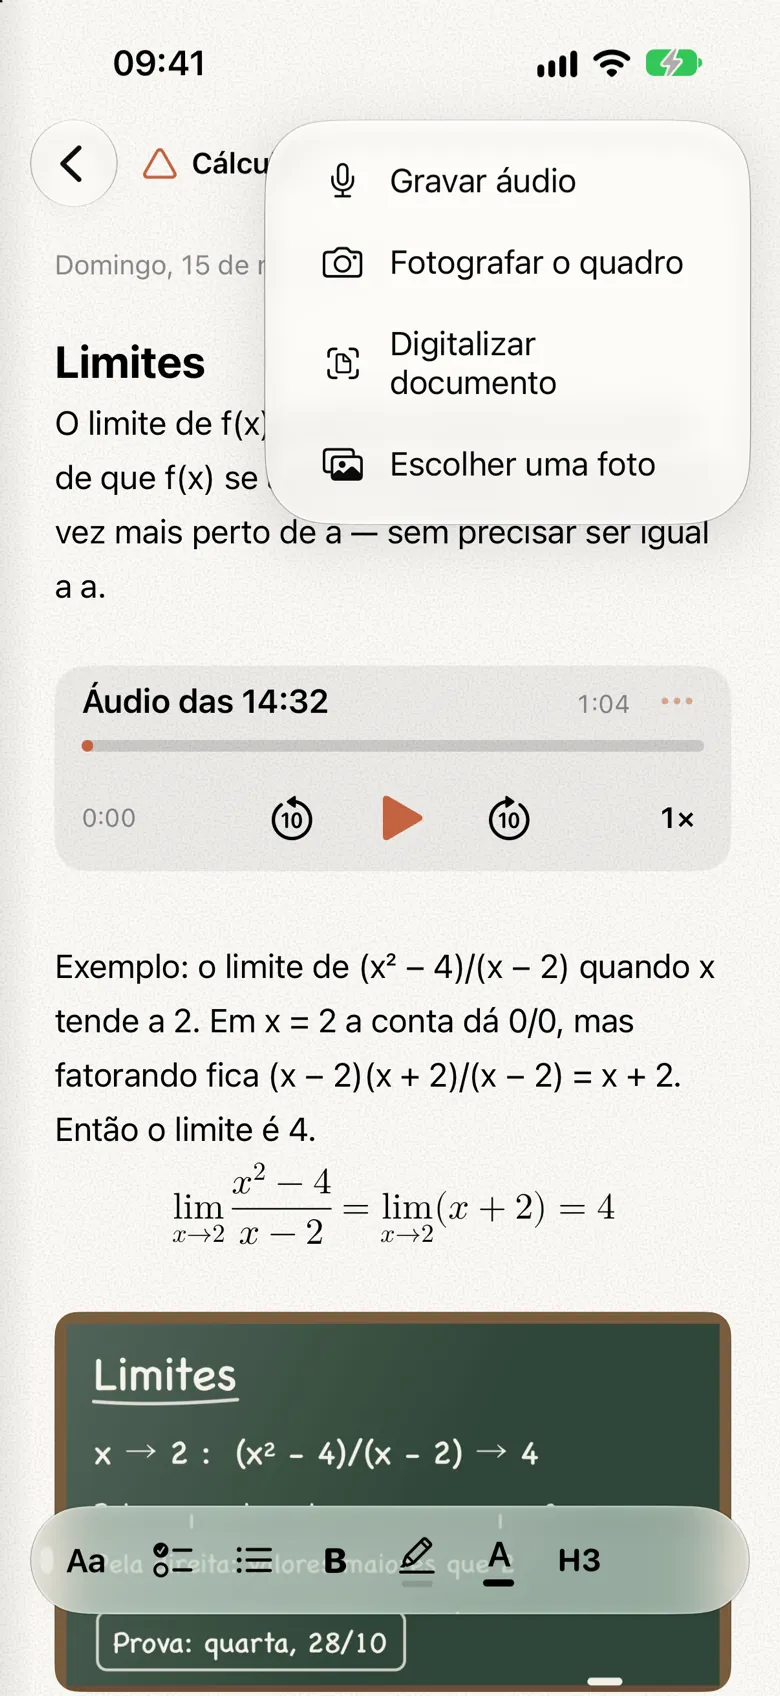
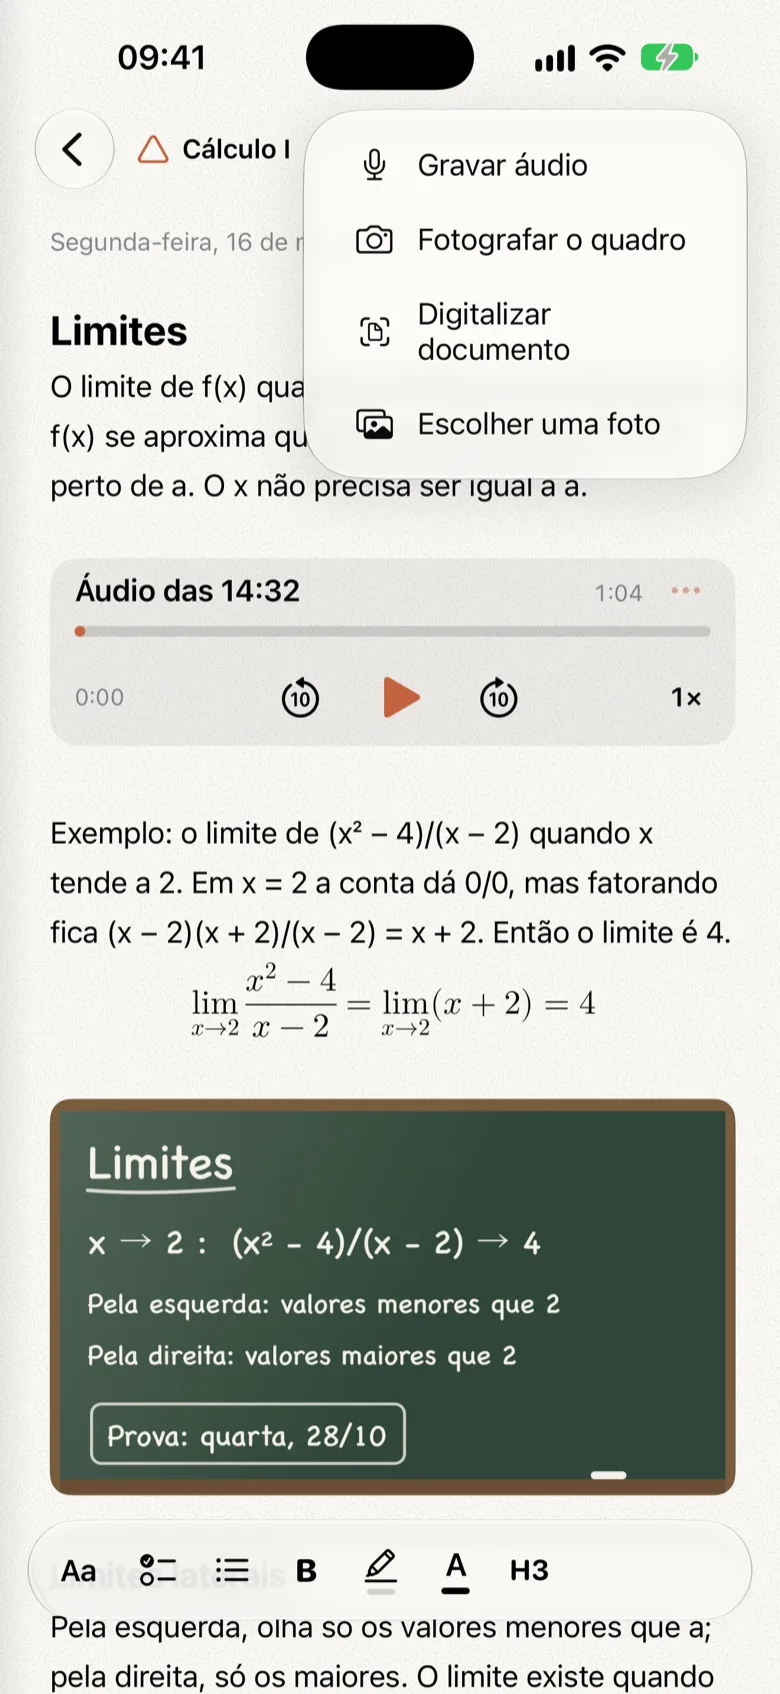
As fotos novas do app, e fotos em inglês na página em inglês
As seis fotos do início, trocadas pelas do app de hoje (a versão 0.100):
a estante com as plaquinhas de cartão, o caderno na mão, a página da
aula, o clipe, a tela de gravar e os widgets. A página em inglês ganhou
as dela, com a estante de exemplo em inglês (College, Work e Home), em
imagens/en/, e as descrições das fotos de acordo.

diff --git a/index.html b/index.html
@@ -51,7 +51,7 @@
         </p>
       </div>
       <figure class="aparelho">
-        <img src="imagens/estante.webp" width="780" height="1696" alt="A estante do app: prateleiras de madeira com os nichos Faculdade, Trabalho e Casa, cada um com os seus cadernos em pé.">
+        <img src="imagens/estante.webp" width="780" height="1694" alt="A estante do app: prateleiras de madeira com os nichos Faculdade, Trabalho e Casa, cada um com os seus cadernos em pé.">
       </figure>
     </div>
 
@@ -74,7 +74,7 @@
           </ul>
         </div>
         <figure class="aparelho">
-          <img src="imagens/caderno.webp" width="780" height="1696" loading="lazy" alt="O caderno Física fora da prateleira, aberto no sumário, com as páginas Cinemática, Leis de Newton e Ondas.">
+          <img src="imagens/caderno.webp" width="780" height="1694" loading="lazy" alt="O caderno Física fora da prateleira, aberto no sumário, com as páginas Cinemática, Leis de Newton e Ondas.">
         </figure>
       </div>
     </section>
@@ -105,7 +105,7 @@
           </ul>
         </div>
         <figure class="aparelho">
-          <img src="imagens/pagina.webp" width="780" height="1696" loading="lazy" alt="Uma página do caderno Cálculo I, sobre limites, com texto, um áudio, uma fórmula e a foto do quadro da aula.">
+          <img src="imagens/pagina.webp" width="780" height="1694" loading="lazy" alt="Uma página do caderno Cálculo I, sobre limites, com texto, um áudio, uma fórmula e a foto do quadro da aula.">
         </figure>
       </div>
     </section>
@@ -124,10 +124,10 @@
         </div>
         <div class="par">
           <figure class="aparelho pequeno">
-            <img src="imagens/clipe.webp" width="780" height="1696" loading="lazy" alt="O menu do clipe aberto na página, com Gravar áudio, Fotografar o quadro, Digitalizar documento e Escolher uma foto.">
+            <img src="imagens/clipe.webp" width="780" height="1694" loading="lazy" alt="O menu do clipe aberto na página, com Gravar áudio, Fotografar o quadro, Digitalizar documento e Escolher uma foto.">
           </figure>
           <figure class="aparelho pequeno">
-            <img src="imagens/gravar.webp" width="780" height="1696" loading="lazy" alt="A tela de gravar um áudio novo, gravando há 16 segundos, com a onda da voz.">
+            <img src="imagens/gravar.webp" width="780" height="1694" loading="lazy" alt="A tela de gravar um áudio novo, gravando há 14 segundos, com a onda da voz.">
           </figure>
         </div>
       </div>
@@ -145,7 +145,7 @@
           </ul>
         </div>
         <figure class="aparelho">
-          <img src="imagens/widgets.webp" width="780" height="1696" loading="lazy" alt="A Tela de Início com dois widgets do Estante: o caderno Cálculo I com as últimas páginas e a página Limites.">
+          <img src="imagens/widgets.webp" width="780" height="1694" loading="lazy" alt="A Tela de Início com dois widgets do Estante: o caderno Cálculo I com as últimas páginas e a página Limites.">
         </figure>
       </div>
     </section>

diff --git a/en/index.html b/en/index.html
@@ -51,7 +51,7 @@
         </p>
       </div>
       <figure class="aparelho">
-        <img src="../imagens/estante.webp" width="780" height="1696" alt="The app's bookcase: wooden shelves labeled Faculdade, Trabalho and Casa, each with its notebooks standing up.">
+        <img src="../imagens/en/estante.webp" width="780" height="1694" alt="The app's bookcase: wooden shelves labeled College, Work and Home, each with its notebooks standing up.">
       </figure>
     </div>
 
@@ -74,7 +74,7 @@
           </ul>
         </div>
         <figure class="aparelho">
-          <img src="../imagens/caderno.webp" width="780" height="1696" loading="lazy" alt="A notebook off the shelf, open to the contents, with the list of its pages.">
+          <img src="../imagens/en/caderno.webp" width="780" height="1694" loading="lazy" alt="The Physics notebook off the shelf, open to the contents, with the pages Kinematics, Newton's laws and Waves.">
         </figure>
       </div>
     </section>
@@ -105,7 +105,7 @@
           </ul>
         </div>
         <figure class="aparelho">
-          <img src="../imagens/pagina.webp" width="780" height="1696" loading="lazy" alt="A notebook page about limits, with text, audio, a formula and a photo of the board from class.">
+          <img src="../imagens/en/pagina.webp" width="780" height="1694" loading="lazy" alt="A page of the Calculus I notebook, about limits, with text, audio, a formula and a photo of the board from class.">
         </figure>
       </div>
     </section>
@@ -124,10 +124,10 @@
         </div>
         <div class="par">
           <figure class="aparelho pequeno">
-            <img src="../imagens/clipe.webp" width="780" height="1696" loading="lazy" alt="The paper clip menu open on a page, with the options to record audio, photograph the board, scan a document and choose a photo.">
+            <img src="../imagens/en/clipe.webp" width="780" height="1694" loading="lazy" alt="The paper clip menu open on a page, with Record Audio, Photograph the Board, Scan Document and Choose a Photo.">
           </figure>
           <figure class="aparelho pequeno">
-            <img src="../imagens/gravar.webp" width="780" height="1696" loading="lazy" alt="The screen for recording new audio, 16 seconds in, with the wave of the voice.">
+            <img src="../imagens/en/gravar.webp" width="780" height="1694" loading="lazy" alt="The screen for recording new audio, 21 seconds in, with the wave of the voice.">
           </figure>
         </div>
       </div>
@@ -145,7 +145,7 @@
           </ul>
         </div>
         <figure class="aparelho">
-          <img src="../imagens/widgets.webp" width="780" height="1696" loading="lazy" alt="The Home Screen with two Estante widgets: a notebook with its latest pages, and a page.">
+          <img src="../imagens/en/widgets.webp" width="780" height="1694" loading="lazy" alt="The Home Screen with two Estante widgets: the Calculus I notebook with its latest pages, and the Limits page.">
         </figure>
       </div>
     </section>
